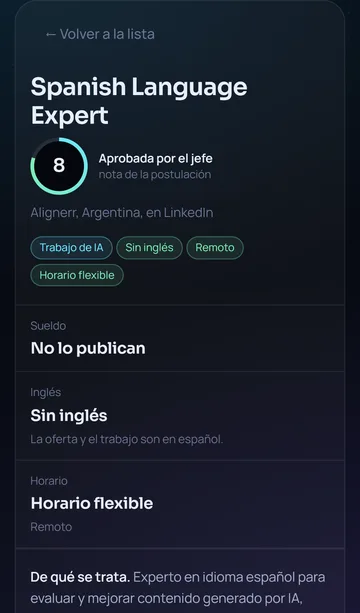
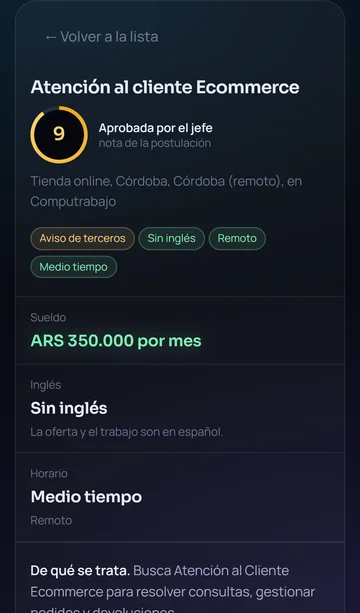
Página de descarga: capturas nuevas, íconos, cómo trabaja, preguntas frecuentes y botón final

diff --git a/index.html b/index.html
@@ -46,7 +46,33 @@ header .zw { height: 34px; width: auto; }
 section { padding: 48px 0; border-top: 1px solid var(--borde); }
 section h2 { font-size: 30px; margin-bottom: 8px; }
 section p.lead { color: var(--tinta-2); max-width: 64ch; margin: 0 0 28px; }
-.grilla { display: grid; grid-template-columns: repeat(auto-fit, minmax(240px, 1fr)); gap: 14px; }
+.grilla { display: grid; grid-template-columns: repeat(3, minmax(0, 1fr)); gap: 14px; }
+@media (max-width: 900px) { .grilla { grid-template-columns: repeat(2, minmax(0, 1fr)); } }
+@media (max-width: 560px) { .grilla { grid-template-columns: 1fr; } }
+.tarjeta .ico { width: 38px; height: 38px; border-radius: 11px; display: grid; place-items: center; margin-bottom: 12px;
+  color: var(--ion); background: rgb(110 231 255 / .1); border: 1px solid rgb(110 231 255 / .25); }
+.tarjeta .ico svg { width: 19px; height: 19px; }
+/* el recorrido del asistente, igual que el riel del panel */
+.riel { display: grid; grid-template-columns: repeat(4, minmax(0, 1fr)); gap: 12px; counter-reset: r; }
+.riel div { position: relative; padding: 18px; border-radius: 18px; border: 1px solid var(--borde); background: var(--vidrio); }
+.riel div::before { counter-increment: r; content: counter(r); position: absolute; top: 16px; right: 16px; font: 600 12px "Sora"; color: var(--tinta-3); }
+.riel b { display: block; font-family: "Sora"; font-size: 16px; margin-bottom: 4px; }
+.riel b i { font-style: normal; color: var(--ion); }
+.riel span { color: var(--tinta-2); font-size: 14px; }
+@media (max-width: 820px) { .riel { grid-template-columns: 1fr 1fr; } }
+/* preguntas frecuentes */
+.faq { display: grid; gap: 10px; max-width: 820px; }
+.faq details { border: 1px solid var(--borde); border-radius: 16px; background: var(--vidrio); padding: 0 18px; }
+.faq summary { cursor: pointer; padding: 16px 0; font-weight: 600; list-style: none; display: flex; justify-content: space-between; gap: 12px; }
+.faq summary::-webkit-details-marker { display: none; }
+.faq summary::after { content: "+"; color: var(--ion); font: 600 18px "Sora"; line-height: 1; }
+.faq details[open] summary::after { content: "–"; }
+.faq p { margin: 0 0 16px; color: var(--tinta-2); font-size: 15px; }
+/* llamado final */
+.final { text-align: center; padding: 56px 0 64px; }
+.final h2 { font-size: clamp(26px, 4vw, 36px); margin-bottom: 10px; }
+.final p { color: var(--tinta-2); margin: 0 0 24px; }
+section h2 { text-wrap: balance; }
 .tarjeta { background: var(--vidrio); border: 1px solid var(--borde); border-radius: 18px; padding: 20px; }
 .tarjeta h3 { font-size: 17px; margin-bottom: 6px; }
 .tarjeta p { margin: 0; color: var(--tinta-2); font-size: 15px; }
@@ -92,8 +118,8 @@ footer img { height: 28px; width: auto; }
       <p class="chico" id="version">Windows 10 u 11 · necesita Google Chrome · 44 MB</p>
     </div>
     <div class="celu">
-      <img class="captura" src="img/panel.webp" alt="El panel del Asistente Laboral" width="1100" height="660">
-      <img class="cel" src="img/celular.webp" alt="El asistente en el celular" width="360" height="700">
+      <img class="captura" src="img/panel.webp" alt="El panel del Asistente Laboral con ofertas puntuadas y una postulación aprobada" width="1100" height="688" fetchpriority="high">
+      <img class="cel" src="img/celular.webp" alt="La misma oferta vista en el celular" width="360" height="613">
     </div>
   </div>
 </div>
@@ -102,12 +128,23 @@ footer img { height: 28px; width: auto; }
   <h2>Qué hace por vos</h2>
   <p class="lead">Funciona para cualquier profesión: lee tu CV y aprende qué sabés hacer y qué estás buscando.</p>
   <div class="grilla">
-    <div class="tarjeta"><h3>Busca en 12 sitios</h3><p>LinkedIn, Computrabajo, Get on Board y nueve plataformas que pagan en dólares por entrenar inteligencia artificial.</p></div>
-    <div class="tarjeta"><h3>Te dice cuáles te convienen</h3><p>Un analista le pone nota a cada oferta: si encaja con tu experiencia, cuánto inglés pide, el horario y el sueldo.</p></div>
-    <div class="tarjeta"><h3>Adapta tu CV y escribe la carta</h3><p>Un redactor arma un CV a medida para cada oferta y un jefe lo revisa. No inventa nada: usa solo lo que dice tu CV.</p></div>
-    <div class="tarjeta"><h3>Desde el celular</h3><p>Escaneás un código y mirás tus postulaciones desde el teléfono. En iPhone queda como una app más.</p></div>
-    <div class="tarjeta"><h3>Inteligencia artificial gratis</h3><p>Usa GLM-4.5-Flash de Z.ai, que es gratis. Sacás tu clave en 3 minutos y sin tarjeta.</p></div>
-    <div class="tarjeta"><h3>Tus datos son tuyos</h3><p>Todo queda en tu computadora. Tu CV y tus datos no se suben a ningún servidor de ZafiroWeb.</p></div>
+    <div class="tarjeta"><span class="ico"><svg viewBox="0 0 24 24" fill="none" stroke="currentColor" stroke-width="2" stroke-linecap="round" stroke-linejoin="round" aria-hidden="true"><circle cx="11" cy="11" r="7"/><path d="m21 21-4.3-4.3"/></svg></span><h3>Busca en 12 sitios</h3><p>LinkedIn, Computrabajo, Get on Board y nueve plataformas que pagan en dólares por entrenar inteligencia artificial.</p></div>
+    <div class="tarjeta"><span class="ico"><svg viewBox="0 0 24 24" fill="none" stroke="currentColor" stroke-width="2" stroke-linecap="round" stroke-linejoin="round" aria-hidden="true"><path d="M3 3v18h18"/><path d="m7 15 4-4 3 3 5-6"/></svg></span><h3>Te dice cuáles te convienen</h3><p>Un analista le pone nota a cada oferta: si encaja con tu experiencia, cuánto inglés pide, el horario y el sueldo.</p></div>
+    <div class="tarjeta"><span class="ico"><svg viewBox="0 0 24 24" fill="none" stroke="currentColor" stroke-width="2" stroke-linecap="round" stroke-linejoin="round" aria-hidden="true"><path d="M12 20h9"/><path d="M16.5 3.5a2.1 2.1 0 0 1 3 3L7 19l-4 1 1-4z"/></svg></span><h3>Adapta tu CV y escribe la carta</h3><p>Un redactor arma un CV a medida para cada oferta y un jefe lo revisa. No inventa nada: usa solo lo que dice tu CV.</p></div>
+    <div class="tarjeta"><span class="ico"><svg viewBox="0 0 24 24" fill="none" stroke="currentColor" stroke-width="2" stroke-linecap="round" stroke-linejoin="round" aria-hidden="true"><rect x="7" y="2" width="10" height="20" rx="2"/><path d="M11 18h2"/></svg></span><h3>Desde el celular</h3><p>Escaneás un código y mirás tus postulaciones desde el teléfono. En iPhone queda como una app más.</p></div>
+    <div class="tarjeta"><span class="ico"><svg viewBox="0 0 24 24" fill="none" stroke="currentColor" stroke-width="2" stroke-linecap="round" stroke-linejoin="round" aria-hidden="true"><path d="M12 3l1.9 4.6L18.5 9l-4.6 1.9L12 15.5l-1.9-4.6L5.5 9l4.6-1.4z"/><path d="M19 15l.8 2 2 .8-2 .8-.8 2-.8-2-2-.8 2-.8z"/></svg></span><h3>Inteligencia artificial gratis</h3><p>Usa GLM-4.5-Flash de Z.ai, que es gratis. Sacás tu clave en 3 minutos y sin tarjeta.</p></div>
+    <div class="tarjeta"><span class="ico"><svg viewBox="0 0 24 24" fill="none" stroke="currentColor" stroke-width="2" stroke-linecap="round" stroke-linejoin="round" aria-hidden="true"><path d="M12 2 4 5v6c0 5 3.4 9.3 8 11 4.6-1.7 8-6 8-11V5z"/><path d="m9 12 2 2 4-4"/></svg></span><h3>Tus datos son tuyos</h3><p>Todo queda en tu computadora. Tu CV y tus datos no se suben a ningún servidor de ZafiroWeb.</p></div>
+  </div>
+</div></section>
+
+<section><div class="caja">
+  <h2>Cómo trabaja</h2>
+  <p class="lead">Cuatro ayudantes con inteligencia artificial, uno detrás del otro, todos los días.</p>
+  <div class="riel">
+    <div><b><i>Búsqueda</i></b><span>Revisa 12 sitios a la vez y junta las ofertas nuevas, sin repetidas.</span></div>
+    <div><b><i>Analista</i></b><span>Le pone nota a cada una según tu perfil, el inglés que pide, el horario y el sueldo.</span></div>
+    <div><b><i>Redactor</i></b><span>Arma tu CV para ese puesto y escribe la carta, solo con datos reales tuyos.</span></div>
+    <div><b><i>Jefe</i></b><span>Revisa todo, corrige lo que suena a IA y lo aprueba. Vos lo mirás y lo enviás.</span></div>
   </div>
 </div></section>
 
@@ -121,6 +158,28 @@ footer img { height: 28px; width: auto; }
     <li><div><b>Seguí la bienvenida</b><span>Sacás tu clave gratis de la IA, subís tu CV en PDF, revisás tu perfil y elegís qué buscás. Arranca la primera búsqueda.</span></div></li>
   </ol>
   <p class="aviso"><b>Necesitás Google Chrome instalado</b> (lo usa para postularte y armar tus CVs en PDF). Si no lo tenés, bajalo de <a href="https://www.google.com/chrome/" target="_blank" rel="noopener">google.com/chrome</a>.</p>
+</div></section>
+
+<section><div class="caja">
+  <h2>Preguntas frecuentes</h2>
+  <p class="lead">Lo que más nos preguntan antes de instalarlo.</p>
+  <div class="faq">
+    <details><summary>¿Es gratis?</summary><p>Sí. El programa es gratis y la inteligencia artificial que usa (GLM-4.5-Flash de Z.ai) también: sacás tu propia clave en 3 minutos, sin tarjeta.</p></details>
+    <details><summary>¿Las plataformas pagan de verdad?</summary><p>Las de entrenamiento de IA (Mercor, Alignerr, Appen, Telus, Micro1 y las demás) son empresas conocidas que pagan en dólares por Stripe, PayPal, Wise o Payoneer. Lo que no garantizan es trabajo constante: a veces te aceptan y hay pocos proyectos. En LinkedIn, Computrabajo y Get on Board publica cualquier empresa: el asistente marca cada aviso como «de terceros» y avisa si ve señales de estafa, pero revisá la empresa antes de mandar tus datos.</p></details>
+    <details><summary>¿Se adapta el CV a cada oferta?</summary><p>Sí. Para cada oferta arma un PDF nuevo: cambia el título, reescribe tu perfil, ordena tu experiencia según lo que pide el puesto y elige las habilidades que más sirven. Nunca inventa: usa solo lo que dice tu CV, y un «jefe» lo controla.</p></details>
+    <details><summary>¿Mis datos están seguros?</summary><p>Todo queda en tu computadora. Tu CV, tus postulaciones y tus claves no se suben a ningún servidor de ZafiroWeb; las contraseñas se guardan cifradas con tu usuario de Windows.</p></details>
+    <details><summary>¿Se postula solo?</summary><p>Prepara todo y, si querés, completa el formulario de la plataforma por vos. El botón final de enviar lo tocás vos (en Computrabajo podés dejar que lo toque solo).</p></details>
+    <details><summary>¿Funciona en el celular o en Mac?</summary><p>Se instala en una computadora con Windows 10 u 11. Desde ahí podés abrirlo en el celular (iPhone o Android) escaneando un código. Por ahora no hay versión para Mac.</p></details>
+    <details><summary>¿Cómo se actualiza?</summary><p>Solo. Cuando sale una versión nueva, el asistente la instala en cuanto termina lo que está haciendo y se vuelve a abrir. No tenés que bajar nada otra vez.</p></details>
+  </div>
+</div></section>
+
+<section class="final"><div class="caja">
+  <h2>Empezá a postularte mejor hoy</h2>
+  <p>Gratis, en 5 minutos y con tu propio CV.</p>
+  <a class="bajar" href="https://github.com/franyttt-art/asistente-laboral/releases/latest/download/Instalar-Asistente-Laboral.exe">
+    <svg viewBox="0 0 24 24" fill="none" stroke="currentColor" stroke-width="2.2" stroke-linecap="round" stroke-linejoin="round" aria-hidden="true"><path d="M12 3v12"/><path d="m7 10 5 5 5-5"/><path d="M5 21h14"/></svg>
+    Descargar gratis para Windows</a>
 </div></section>
 
 <div class="caja">
